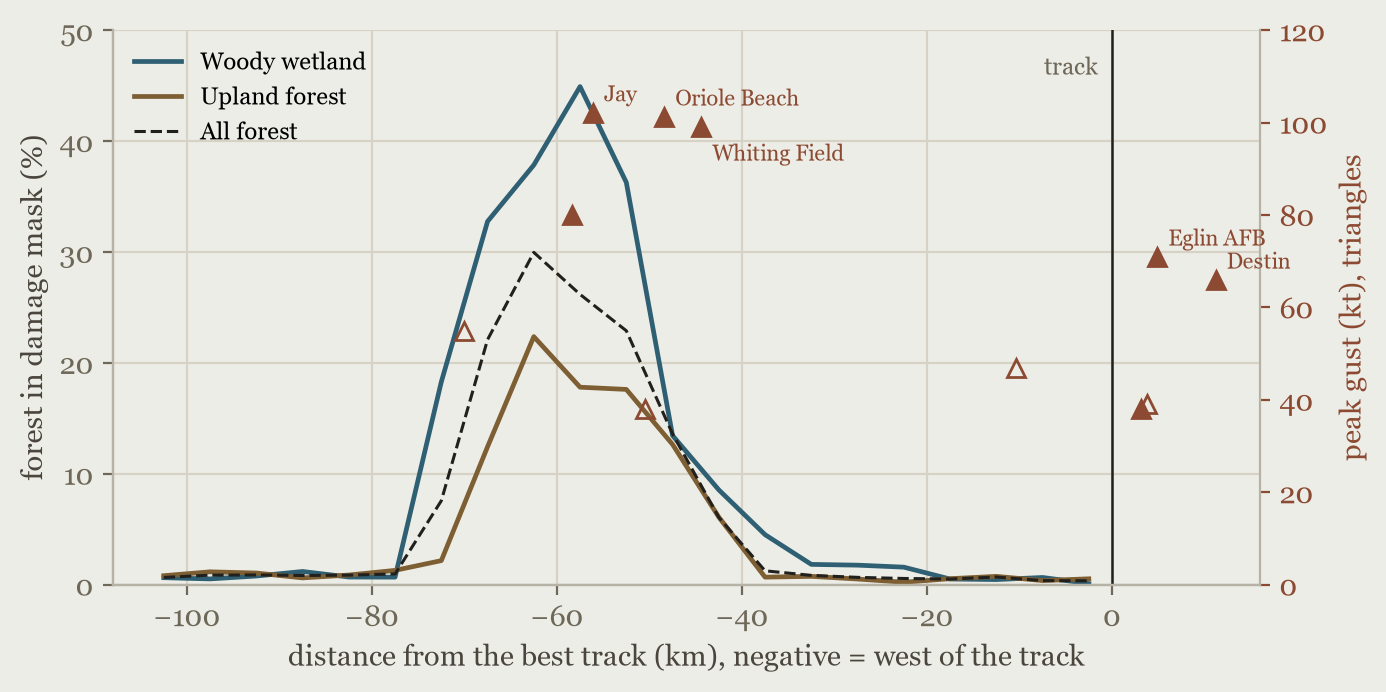
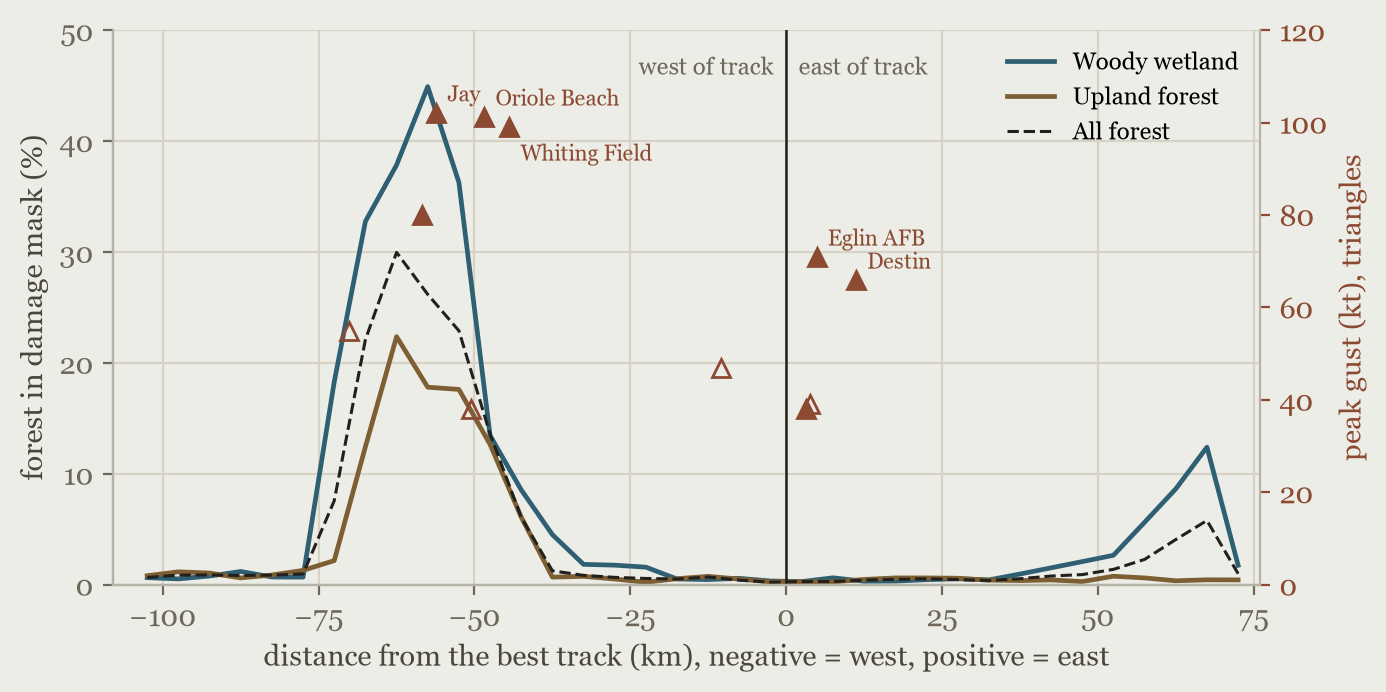
Wind: NEXRAD KMOB/KEVX lowest-sweep velocity maps (robust, range caveat); two-sided site wind chart

diff --git a/scripts/nexrad_maxvel.py b/scripts/nexrad_maxvel.py
@@ -1,0 +1,62 @@
+"""Maximum Doppler wind speed from the lowest-elevation velocity sweep, KMOB and KEVX, 22Z 9 Oct to 06Z 10 Oct 2026.
+Per volume: lowest fixed-angle sweep that carries velocity; velocities dealiased with Py-ART's region-based dealiaser
+(pyart.correct.dealias_region_based); gates with reflectivity < 5 dBZ (or missing) dropped. |V| is taken at each gate and the
+maximum over all volumes is kept on a 1 km lon/lat grid (lon -88.4..-85.5, lat 29.8..32.4), with the time of the maximum and the
+sign (inbound negative). Beam height above the radar for the band (4/3-earth model) is reported per radar.
+This is radial velocity, i.e. the wind component along the beam at beam height, not the surface wind speed. Robustness: |V| > 75 m/s
+(physically implausible here, a dealiasing failure) is dropped, and the map keeps the SECOND-highest |V| over all volumes at each
+point, so a single mis-dealiased volume cannot set the value. 'time' is that of the highest accepted value.
+Held-out block + 2 km and aerial tip + 2 km are masked in the figure. Writes data/nexrad/maxvel_<SITE>.npz,
+docs/wind/nexrad.json and docs/wind/fig_nexrad_maxvel.png."""
+import glob, json, os, sys, time, warnings; sys.path.insert(0, "scripts")
+warnings.filterwarnings("ignore")
+import numpy as np, pyart, matplotlib
+matplotlib.use("Agg"); import matplotlib.pyplot as plt
+from matplotlib.patches import Polygon as MPoly
+t0 = time.time()
+LON = np.arange(-88.4, -85.5, 0.0105); LAT = np.arange(29.8, 32.4, 0.009)   # ~1 km
+res = {}
+def beam_h(r_m, elev_deg, h0):
+    ke, Re = 4 / 3, 6371000.0; return np.sqrt(r_m ** 2 + (ke * Re) ** 2 + 2 * r_m * ke * Re * np.sin(np.radians(elev_deg))) - ke * Re + h0
+for site in ("KMOB", "KEVX"):
+    files = sorted(glob.glob(f"data/nexrad/{site}/{site}*_V06"))
+    vmax = np.full((len(LAT), len(LON)), np.nan, "float32"); tmax = np.full(vmax.shape, np.nan, "float32"); smax = np.zeros(vmax.shape, "int8")
+    v1 = np.full(vmax.shape, -1.0); v2 = np.full(vmax.shape, -1.0); n_cap = 0
+    n_ok, n_bad, elevs, nyq = 0, 0, [], []
+    for fp in files:
+        try:
+            rad = pyart.io.read_nexrad_archive(fp)
+            sw = [i for i in range(rad.nsweeps) if np.ma.count(rad.get_field(i, "velocity")) > 1000] if "velocity" in rad.fields else []
+            if not sw: n_bad += 1; continue
+            i = min(sw, key=lambda k: rad.fixed_angle["data"][k]); r1 = rad.extract_sweeps([i])
+            dv = pyart.correct.dealias_region_based(r1, vel_field="velocity")
+            v = np.ma.filled(dv["data"], np.nan).astype("float32")
+            if "reflectivity" in r1.fields:
+                z = np.ma.filled(r1.fields["reflectivity"]["data"], np.nan); v[~(z >= 5)] = np.nan
+            la, lo = r1.gate_latitude["data"], r1.gate_longitude["data"]
+            ii = np.floor((la - LAT[0]) / 0.009).astype(int); jj = np.floor((lo - LON[0]) / 0.0105).astype(int)
+            n_cap += int((np.abs(v) > 75).sum()); v[np.abs(v) > 75] = np.nan
+            ok = np.isfinite(v) & (ii >= 0) & (ii < len(LAT)) & (jj >= 0) & (jj < len(LON))
+            a = np.abs(v[ok]); I, J = ii[ok], jj[ok]
+            tmp = np.full(vmax.shape, -1.0); np.maximum.at(tmp, (I, J), a)
+            sg = np.zeros(vmax.shape, "int8"); order = np.argsort(a); sg[I[order], J[order]] = np.sign(v[ok][order]).astype("int8")
+            v2 = np.maximum(v2, np.minimum(v1, tmp)); better = tmp > v1; v1 = np.maximum(v1, tmp)
+            stamp = os.path.basename(fp)[4:19]; hrs = (np.datetime64(f"{stamp[:4]}-{stamp[4:6]}-{stamp[6:8]}T{stamp[9:11]}:{stamp[11:13]}") - np.datetime64("2026-10-10T00:00")) / np.timedelta64(1, "h")
+            tmax[better] = hrs; smax[better] = sg[better]
+            elevs.append(float(rad.fixed_angle["data"][i])); nyq.append(float(np.nanmax(r1.instrument_parameters["nyquist_velocity"]["data"])) if r1.instrument_parameters and "nyquist_velocity" in r1.instrument_parameters else np.nan)
+            n_ok += 1
+        except Exception as e:
+            n_bad += 1; print("skip", os.path.basename(fp), str(e)[:80], flush=True)
+    vmax = np.where(v2 > 0, v2, np.nan).astype("float32")
+    site_lat, site_lon, site_alt = float(rad.latitude["data"][0]), float(rad.longitude["data"][0]), float(rad.altitude["data"][0])
+    np.savez_compressed(f"data/nexrad/maxvel_{site}.npz", vmax=vmax, tmax_h=tmax, sign=smax, lon=LON, lat=LAT)
+    from pyproj import Geod
+    gd = Geod(ellps="WGS84"); band = {"band_center_31.0N_87.15W": (31.0, -87.15), "band_south_30.6N_87.05W": (30.6, -87.05), "band_north_31.45N_87.15W": (31.45, -87.15)}
+    hh = {}
+    for k, (la_, lo_) in band.items():
+        _, _, dist = gd.inv(site_lon, site_lat, lo_, la_); hh[k] = {"range_km": round(dist / 1000, 1), "beam_center_height_m_asl": round(float(beam_h(dist, np.median(elevs), site_alt)))}
+    res[site] = {"files": len(files), "volumes_used": n_ok, "volumes_skipped": n_bad, "lowest_velocity_elevation_deg_median": round(float(np.median(elevs)), 2),
+                 "nyquist_ms_median": round(float(np.nanmedian(nyq)), 1) if nyq else None, "site": [site_lat, site_lon, site_alt], "beam_height_over_band": hh,
+                 "second_highest_abs_vel_ms_max_in_grid": round(float(np.nanmax(vmax)), 1), "gates_dropped_over_75ms": n_cap}
+    print(site, res[site], round(time.time() - t0), flush=True)
+json.dump(res, open("docs/wind/nexrad.json", "w"), indent=1)

diff --git a/scripts/nexrad_fig.py b/scripts/nexrad_fig.py
@@ -1,0 +1,51 @@
+"""Figure and band statistics for the NEXRAD maximum-|V| maps (nexrad_maxvel.py).
+Band test: for each radar, mean of the maximum |V| inside the damage band (pipeline extent mask, held-out exclusions removed)
+vs. outside the band at the same range from the radar (annulus matched to the band's range distribution, land and sea),
+which keeps beam height comparable. Held-out block + 2 km and aerial tip + 2 km are greyed and excluded.
+Writes docs/wind/nexrad.json (adds band_test) and docs/wind/fig_nexrad_maxvel.png."""
+import json, sys; sys.path.insert(0, "scripts")
+import numpy as np, matplotlib
+matplotlib.use("Agg"); import matplotlib.pyplot as plt
+from pyproj import Geod
+gd = Geod(ellps="WGS84"); J = json.load(open("docs/wind/nexrad.json"))
+from scipy.ndimage import uniform_filter
+B = np.load("data/extent_band.npy"); Bs = uniform_filter(B.astype(float), 15); e = np.load("data/extent_ee.npz"); bx0, by0, bx1, by1 = e["extent"]; rb = float(e["res"])
+blo = bx0 + (np.arange(B.shape[1]) + 0.5) * rb; bla = by1 - (np.arange(B.shape[0]) + 0.5) * rb
+held = json.load(open("site/data/heldout.geojson")); from shapely.geometry import shape; from shapely import contains_xy
+HP = [shape(f["geometry"]) for f in held["features"]]
+fx = []
+for line in open("data/wind/bal092026.dat"):
+    p = [s.strip() for s in line.split(",")]
+    if not fx or fx[-1][0] != p[2]: fx.append((p[2], float(p[6][:-1]) / 10, -float(p[7][:-1]) / 10))
+fig, axs = plt.subplots(2, 2, figsize=(13, 12), constrained_layout=True)
+for col, site in enumerate(("KMOB", "KEVX")):
+    d = np.load(f"data/nexrad/maxvel_{site}.npz"); v, tm, lo, la = d["vmax"], d["tmax_h"], d["lon"], d["lat"]
+    LO, LA = np.meshgrid(lo + 0.00525, la + 0.0045)
+    hmask = np.zeros(v.shape, bool)
+    for g in HP: hmask |= contains_xy(g, LO, LA)
+    v = np.where(hmask, np.nan, v); tm = np.where(hmask, np.nan, tm)
+    bi = np.clip(((by1 - LA) / rb).astype(int), 0, B.shape[0] - 1); bj = np.clip(((LO - bx0) / rb).astype(int), 0, B.shape[1] - 1)
+    inb = B[bi, bj] & (LA >= by0) & (LA <= by1) & (LO >= bx0) & (LO <= bx1)
+    s_lat, s_lon, _ = J[site]["site"]; _, _, rng = gd.inv(np.full(LO.shape, s_lon), np.full(LA.shape, s_lat), LO, LA); rng /= 1000
+    rb_in = rng[inb & np.isfinite(v)]; lo_r, hi_r = np.percentile(rb_in, [5, 95])
+    ann = (~inb) & (rng >= lo_r) & (rng <= hi_r) & np.isfinite(v) & (LA > 30.2) & (LA < 31.9) & (LO > -88.0) & (LO < -86.0)
+    J[site]["band_test"] = {"band_range_km_5_95": [round(float(lo_r), 1), round(float(hi_r), 1)], "mean_max_absV_in_band_ms": round(float(np.nanmean(v[inb])), 1),
+                            "mean_max_absV_same_range_outside_band_ms": round(float(np.nanmean(v[ann])), 1), "p90_in_band": round(float(np.nanpercentile(v[inb & np.isfinite(v)], 90)), 1),
+                            "p90_outside_same_range": round(float(np.nanpercentile(v[ann], 90)), 1), "cells_in_band": int((inb & np.isfinite(v)).sum()), "cells_outside": int(ann.sum()),
+                            "median_time_of_max_in_band_h_from_00Z": round(float(np.nanmedian(tm[inb])), 2)}
+    for row, (arr, cmap, vmin, vmax, lab) in enumerate(((v, "magma_r", 20, 60, "2nd-highest |radial velocity| (m/s), lowest sweep"), (tm, "twilight_shifted", -2, 6, "time of the highest accepted value (h from 00Z)"))):
+        ax = axs[row, col]; im = ax.pcolormesh(lo, la, arr, cmap=cmap, vmin=vmin, vmax=vmax, shading="auto")
+        ax.contour(blo, bla, Bs, levels=[0.3], colors="#2F5F73", linewidths=1.3)
+        for g in HP:
+            c = np.array(g.exterior.coords); ax.fill(c[:, 0], c[:, 1], color="#9e9e9e", ec="#555", lw=0.6)
+        ax.plot([q[2] for q in fx], [q[1] for q in fx], "-", c="k", lw=1.4)
+        ax.plot(s_lon, s_lat, "s", c="k", ms=7)
+        for rr in (50, 100, 150):
+            az = np.linspace(0, 360, 181); lo_c, la_c, _ = gd.fwd(np.full(181, s_lon), np.full(181, s_lat), az, np.full(181, rr * 1000)); ax.plot(lo_c, la_c, ":", c="0.4", lw=0.6)
+        ax.set_xlim(-88.4, -85.5); ax.set_ylim(29.8, 32.3); ax.set_aspect(1 / np.cos(np.radians(31)))
+        fig.colorbar(im, ax=ax, shrink=0.7, label=lab)
+        hb = J[site]["beam_height_over_band"]["band_center_31.0N_87.15W"]
+        ax.set_title(f"{site}: {lab}\nbeam centre over the band ~{hb['beam_center_height_m_asl']/1000:.1f} km ({hb['range_km']:.0f} km range); blue = band outline; grey = held out", fontsize=9)
+fig.suptitle("NEXRAD Level II lowest velocity sweep, 22Z 9 Oct to 06Z 10 Oct 2026: dealiased radial velocity (wind component along the beam, at beam height; not surface wind)", fontsize=10)
+fig.savefig("docs/wind/fig_nexrad_maxvel.png", dpi=75)
+json.dump(J, open("docs/wind/nexrad.json", "w"), indent=1); print(json.dumps({s: J[s]["band_test"] for s in ("KMOB", "KEVX")}, indent=1))

diff --git a/scripts/site_figures.py b/scripts/site_figures.py
@@ -47,11 +47,11 @@ h, l = axs[0].get_legend_handles_labels(); fig.legend(h, l, loc="lower center", 
 fig.text(0.5, -0.11, "Sentinel-1 points are 27 October and 8 November.", ha="center", fontsize=8, color=MUTED)
 save(fig, "persistence.png")
 # 3. wind: damaged share vs distance from track
-W = json.load(open("docs/wind/wind.json"))
+W = json.load(open("docs/wind/wind.json")); WB2 = json.load(open("docs/wind/wind_both.json"))   # both sides of the track
 fig, ax = plt.subplots(figsize=(7.4, 3.6))
 for dn, col, ls, lab in (("wetland", WET, "-", "Woody wetland"), ("upland", ACC, "-", "Upland forest"), ("all", INK, "--", "All forest")):
-    r = W["bins_signed_distance_5km"][dn]; ax.plot([(q["from_km"] + q["to_km"]) / 2 for q in r], [q["damaged_share"] * 100 for q in r], ls, color=col, lw=1.7 if ls == "-" else 1.1, label=lab)
-ax.axvline(0, color=INK, lw=0.9); ax.text(-1.5, 46, "track", ha="right", fontsize=8.5, color=MUTED)
+    r = WB2["bins_signed_distance_5km"][dn]; ax.plot([(q["from_km"] + q["to_km"]) / 2 for q in r], [q["damaged_share"] * 100 for q in r], ls, color=col, lw=1.7 if ls == "-" else 1.1, label=lab)
+ax.axvline(0, color=INK, lw=0.9); ax.text(-2, 46, "west of track", ha="right", fontsize=8.5, color=MUTED); ax.text(2, 46, "east of track", ha="left", fontsize=8.5, color=MUTED)
 a2 = ax.twinx(); a2.grid(False); a2.spines["right"].set_visible(True)
 for s in W["stations"]:
     if s.get("gust_kt") is None: continue
@@ -62,8 +62,8 @@ for s in W["stations"]:
         off = (4, -12) if s["short"] == "Whiting Field South" else (4, 4)
         a2.annotate(s["short"].replace("Whiting Field South", "Whiting Field"), (s["signed_distance_km"], s["gust_kt"]), xytext=off, textcoords="offset points", fontsize=8, color=MOD)
 a2.set_ylim(0, 120); a2.set_ylabel("peak gust (kt), triangles", color=MOD); a2.tick_params(colors=MOD)
-ax.set_xlabel("distance from the best track (km), negative = west of the track"); ax.set_ylabel("forest in damage mask (%)")
-ax.set_ylim(0, 50); ax.legend(fontsize=8.5, loc="upper left"); ax.set_xlim(-108, 16)
+ax.set_xlabel("distance from the best track (km), negative = west, positive = east"); ax.set_ylabel("forest in damage mask (%)")
+ax.set_ylim(0, 50); ax.legend(fontsize=8.5, loc="upper right"); ax.set_xlim(-108, 76)
 save(fig, "wind_distance.png")
 # ---- narrow versions for phones (served below 620 px by <picture>), same data, larger relative type
 plt.rcParams.update({"font.size": 10})
@@ -91,7 +91,7 @@ h, l = axs[0].get_legend_handles_labels(); fig.legend(h, l, loc="lower center", 
 save(fig, "persistence_narrow.png")
 fig, ax = plt.subplots(figsize=(3.9, 4.0))
 for dn, col, ls, lab in (("wetland", WET, "-", "Woody wetland"), ("upland", ACC, "-", "Upland forest"), ("all", INK, "--", "All forest")):
-    r = W["bins_signed_distance_5km"][dn]; ax.plot([(q["from_km"] + q["to_km"]) / 2 for q in r], [q["damaged_share"] * 100 for q in r], ls, color=col, lw=1.7 if ls == "-" else 1.1, label=lab)
+    r = WB2["bins_signed_distance_5km"][dn]; ax.plot([(q["from_km"] + q["to_km"]) / 2 for q in r], [q["damaged_share"] * 100 for q in r], ls, color=col, lw=1.7 if ls == "-" else 1.1, label=lab)
 ax.axvline(0, color=INK, lw=0.9)
 a2 = ax.twinx(); a2.grid(False); a2.spines["right"].set_visible(True)
 for s in W["stations"]:
@@ -102,7 +102,7 @@ for s in W["stations"]:
     if s["short"] == "Jay": a2.annotate("Jay", (s["signed_distance_km"], s["gust_kt"]), xytext=(-30, 6), textcoords="offset points", fontsize=8, color=MOD, arrowprops=dict(arrowstyle="-", color=MOD, lw=0.6))
     if s["short"] == "Destin": a2.annotate("Destin", (s["signed_distance_km"], s["gust_kt"]), xytext=(-10, 22), textcoords="offset points", fontsize=8, color=MOD, ha="right", arrowprops=dict(arrowstyle="-", color=MOD, lw=0.6))
 a2.set_ylim(0, 120); a2.set_ylabel("peak gust (kt)", color=MOD); a2.tick_params(colors=MOD)
-ax.set_xlabel("km from track (negative = west)"); ax.set_ylabel("forest in damage mask (%)"); ax.set_ylim(0, 50); ax.set_xlim(-108, 16)
+ax.set_xlabel("km from track (negative = west)"); ax.set_ylabel("forest in damage mask (%)"); ax.set_ylim(0, 50); ax.set_xlim(-108, 76)
 ax.legend(fontsize=8.5, loc="upper center", bbox_to_anchor=(0.5, -0.2), ncol=1)
 save(fig, "wind_distance_narrow.png")
 from PIL import Image

diff --git a/scripts/nexrad_fetch.py b/scripts/nexrad_fetch.py
@@ -1,0 +1,27 @@
+"""Download NEXRAD Level II volumes for KMOB and KEVX, 2026-10-09 22:00 to 2026-10-10 06:00 UTC, from the public
+unidata-nexrad-level2 bucket on AWS (anonymous HTTPS). Skips *_MDM metadata files. Writes data/nexrad/<SITE>/ and
+data/nexrad/manifest.json (key, bytes)."""
+import json, os, re, urllib.parse, urllib.request
+import xml.etree.ElementTree as ET
+B = "https://unidata-nexrad-level2.s3.amazonaws.com"
+out = {}
+for site in ("KMOB", "KEVX"):
+    os.makedirs(f"data/nexrad/{site}", exist_ok=True); keys = []
+    for day in ("2026/10/09", "2026/10/10"):
+        token = None
+        while True:
+            url = f"{B}/?list-type=2&prefix={day}/{site}/" + (f"&continuation-token={urllib.parse.quote(token)}" if token else "")
+            x = ET.fromstring(urllib.request.urlopen(url, timeout=60).read()); ns = {"s": x.tag.split("}")[0][1:]}
+            for c in x.findall("s:Contents", ns):
+                k = c.find("s:Key", ns).text; sz = int(c.find("s:Size", ns).text)
+                m = re.search(r"(\d{8})_(\d{6})_V06$", k)
+                if not m: continue
+                t = m.group(1) + m.group(2)
+                if "20261009220000" <= t <= "20261010060000": keys.append((k, sz))
+            if x.find("s:IsTruncated", ns).text == "true": token = x.find("s:NextContinuationToken", ns).text
+            else: break
+    for k, sz in keys:
+        dst = f"data/nexrad/{site}/" + k.split("/")[-1]
+        if not (os.path.exists(dst) and os.path.getsize(dst) == sz): urllib.request.urlretrieve(f"{B}/{k}", dst)
+    out[site] = [{"key": k, "bytes": sz} for k, sz in keys]; print(site, len(keys), "files", round(sum(s for _, s in keys) / 1e6), "MB", flush=True)
+json.dump(out, open("data/nexrad/manifest.json", "w"), indent=1)
